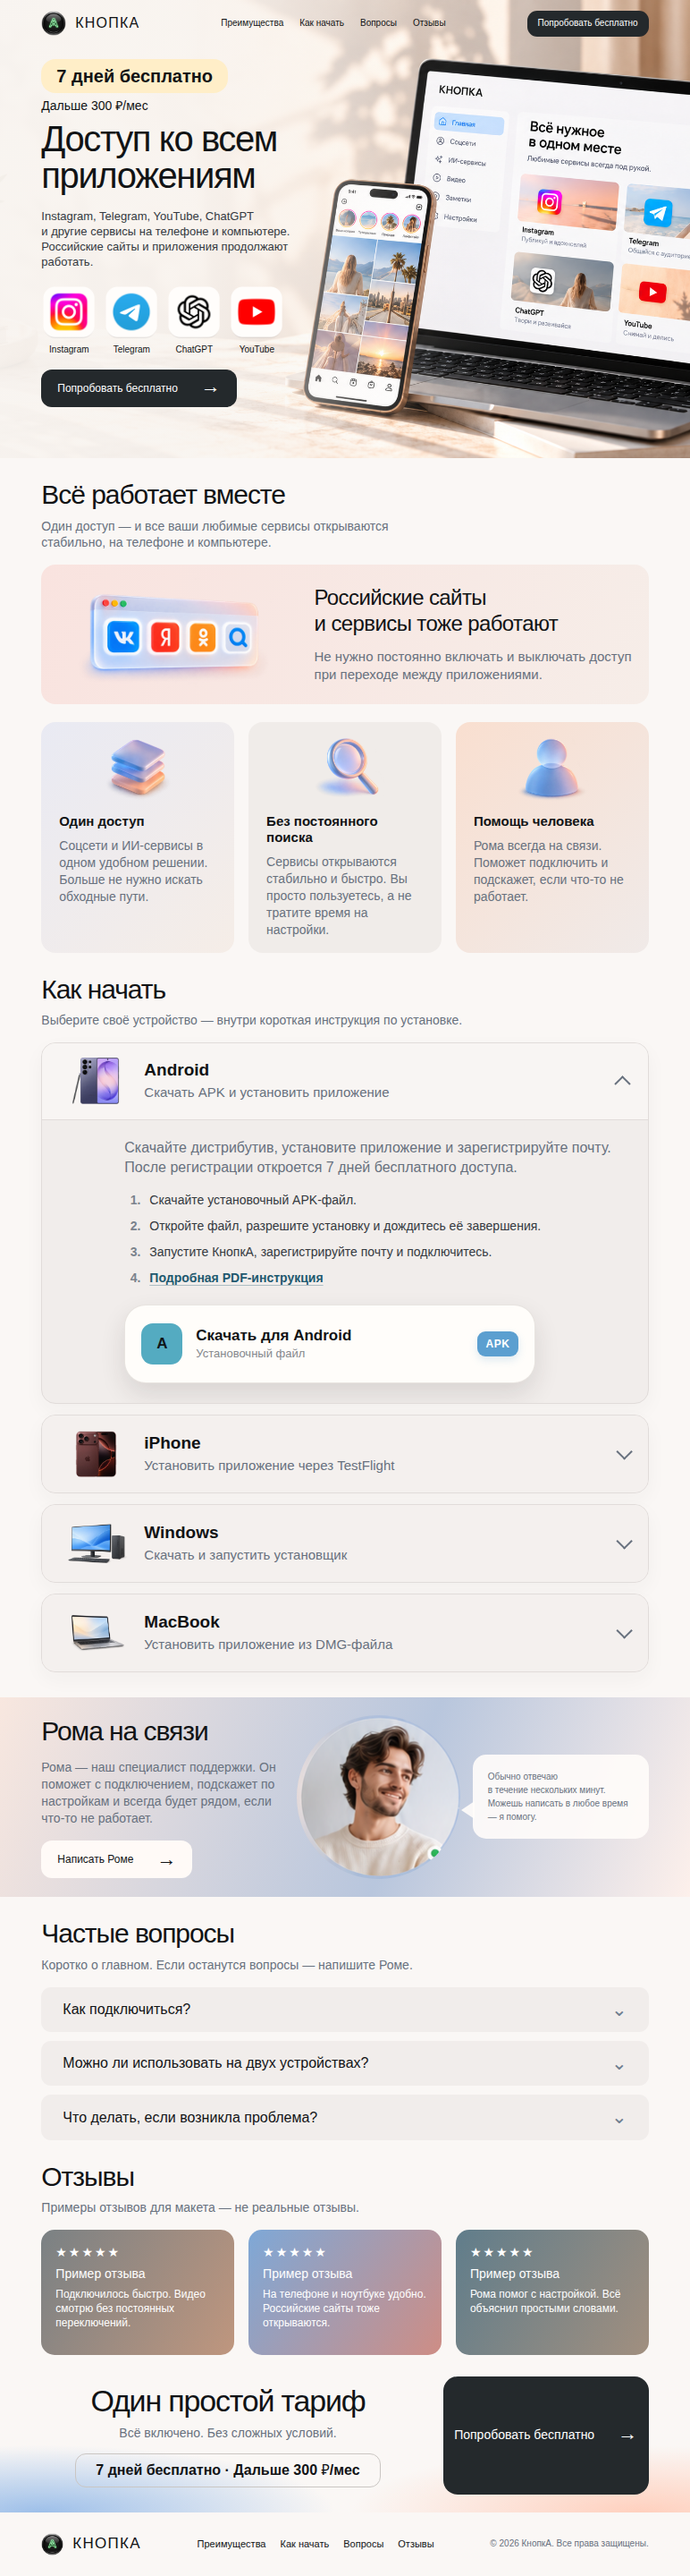
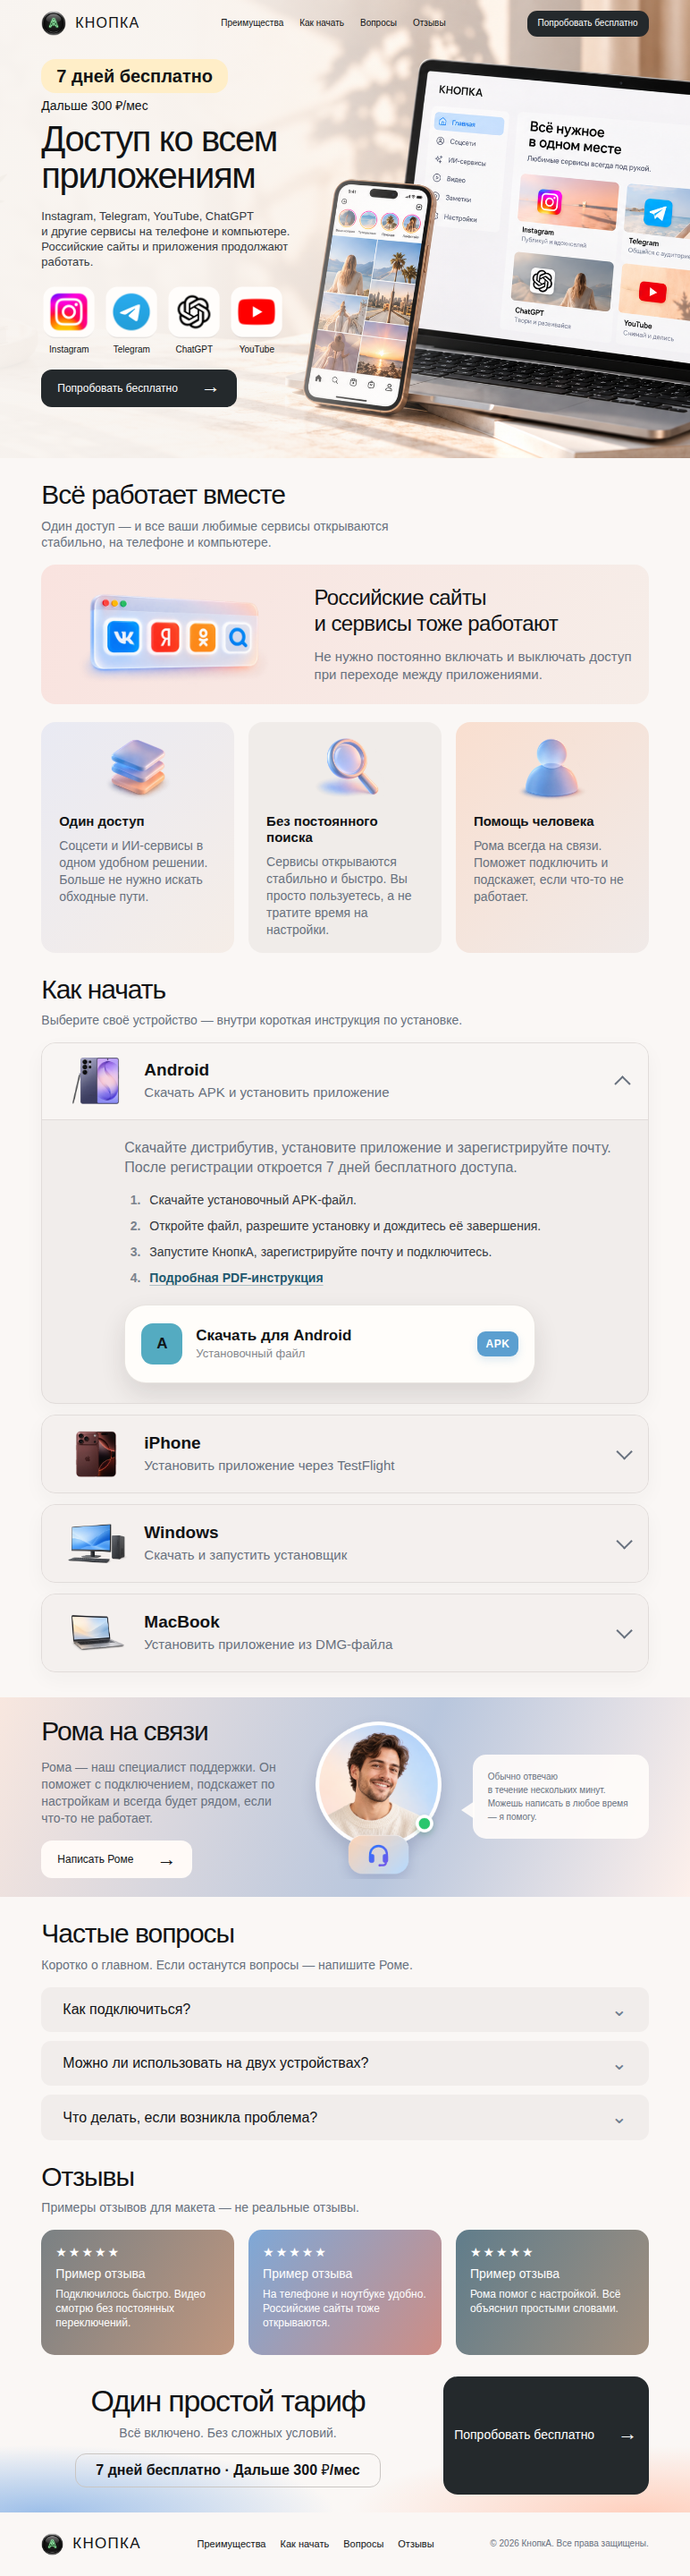
feat: use Mini App operator in support section

Changed region(s): [[0.4352, 0.6492, 0.6839, 0.7419]]

diff --git a/Design2.0/version-001-mvp/site/source/index.html b/Design2.0/version-001-mvp/site/source/index.html
@@ -139,7 +139,7 @@
     </section>
     <section class="support" aria-labelledby="support-title"><div class="shell support-grid">
       <div class="support-copy"><h2 id="support-title">Рома на связи</h2><p>Рома — наш специалист поддержки. Он поможет с подключением, подскажет по настройкам и всегда будет рядом, если что-то не работает.</p><button type="button" class="button light">Написать Роме <span aria-hidden="true">→</span></button></div>
-      <img class="portrait" src="../assets/support-portrait.png" alt="Концептуальное фото поддержки из референса, не подтверждённый портрет Ромы" width="184" height="184">
+      <img class="support-operator" src="../assets/support-operator-miniapp-v1.png" alt="Оператор поддержки КнопкА" width="260" height="260" data-template-keep>
       <p class="speech">Обычно отвечаю<br> в течение нескольких минут.<br> Можешь написать в любое время — я помогу.</p>
     </div></section>
     <section class="section shell" id="faq" aria-labelledby="faq-title">

diff --git a/Design2.0/version-001-mvp/site/template/index.html b/Design2.0/version-001-mvp/site/template/index.html
@@ -139,7 +139,7 @@
     </section>
     <section class="support" aria-labelledby="support-title"><div class="shell support-grid">
       <div class="support-copy"><h2 id="support-title">Рома на связи</h2><p>Рома — наш специалист поддержки. Он поможет с подключением, подскажет по настройкам и всегда будет рядом, если что-то не работает.</p><button type="button" class="button light">Написать Роме <span aria-hidden="true">→</span></button></div>
-      <span class="media-slot portrait" role="img" aria-label="Место для изображения support-portrait" style="--slot-ratio:184/184">support-portrait</span>
+      <img class="support-operator" src="../assets/support-operator-miniapp-v1.png" alt="Оператор поддержки КнопкА" width="260" height="260" data-template-keep>
       <p class="speech">Обычно отвечаю<br> в течение нескольких минут.<br> Можешь написать в любое время — я помогу.</p>
     </div></section>
     <section class="section shell" id="faq" aria-labelledby="faq-title">

diff --git a/Design2.0/version-001-mvp/site/source/styles.css b/Design2.0/version-001-mvp/site/source/styles.css
@@ -67,3 +67,7 @@
 
 /* Optical alignment for arrows in the two trial CTA buttons. */
 .hero-cta>span[aria-hidden="true"],.tariff-cta>span[aria-hidden="true"]{transform:translateY(-2px)}
+
+/* Canonical Mini App operator cutout: portrait, online dot and headphones. */
+.support-operator{width:min(100%,260px);height:auto;object-fit:contain;justify-self:center}
+@media(max-width:700px){.support-operator{grid-column:2;grid-row:2;width:120px}}
